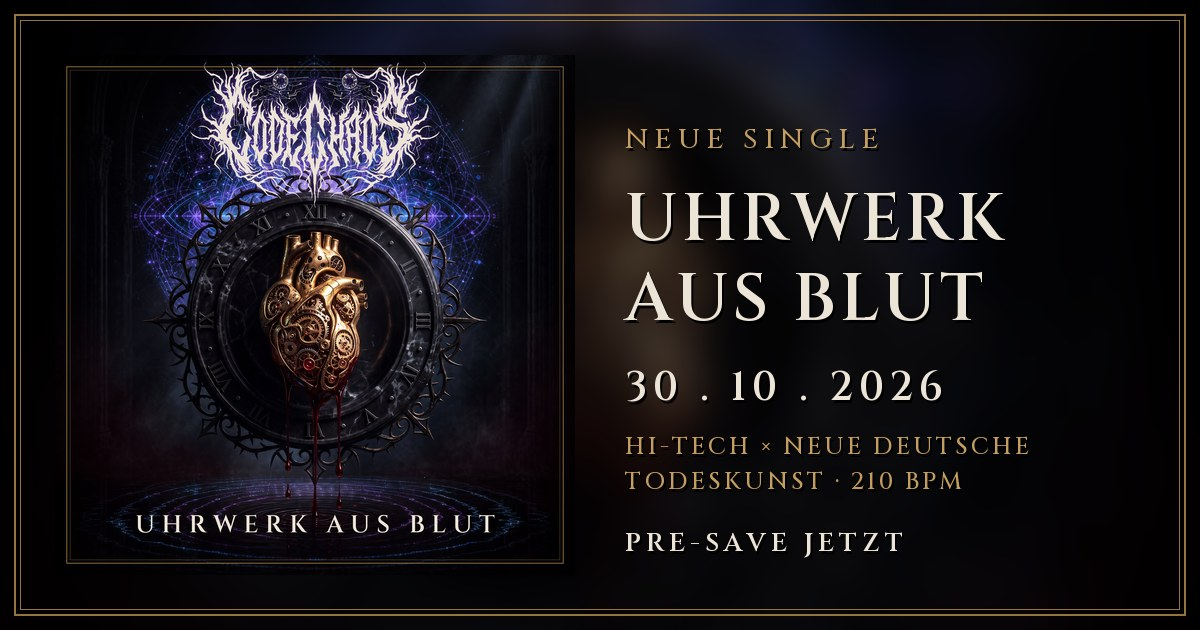
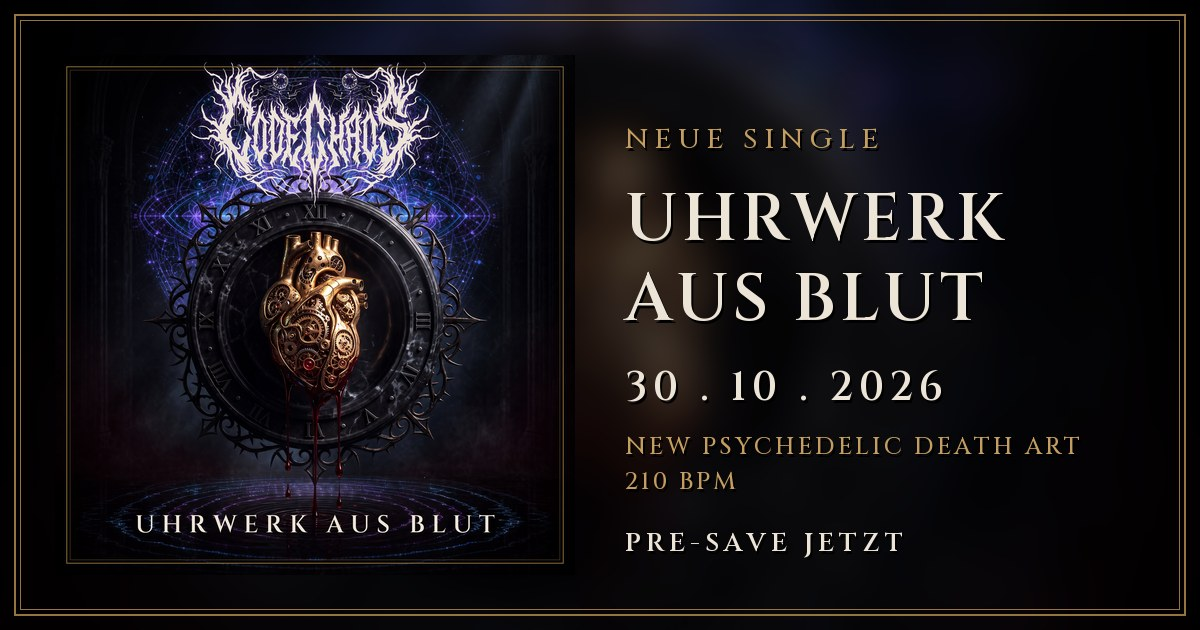
Genre-Label New Psychedelic Death Art in Share-Grafik; KI-Hinweis nur noch 'Bild mit KI erstellt'

Changed region(s): [[0.5242, 0.6937, 0.8942, 0.7841], [0.7092, 0.754, 0.8017, 0.7841]]

diff --git a/index.html b/index.html
@@ -181,7 +181,7 @@
    "inLanguage": "de",
    "image": "https://codechaos-official.de/images/uhrwerk-aus-blut/cover-1600.jpg",
    "url": "https://codechaos-official.de/#single",
-   "description": "Ein Herz, das zu schnell schlägt. Ein Uhrwerk, das blutet. Neue Single von Code Chaos, erscheint am 30.10.2026 auf Abstract Sound Design. Stimmen und Bild mit KI erstellt.",
+   "description": "Ein Herz, das zu schnell schlägt. Ein Uhrwerk, das blutet. Neue Single von Code Chaos, erscheint am 30.10.2026 auf Abstract Sound Design. Bild mit KI erstellt.",
    "recordingOf": {
     "@type": "MusicComposition",
     "name": "Uhrwerk aus Blut",
@@ -1461,7 +1461,7 @@ footer {
     <p class="tagline">Ein Herz, das zu schnell schlägt. Ein Uhrwerk, das blutet.</p>
     <a class="btn-blood" href="https://distrokid.com/hyperfollow/codechaos/uhrwerk-aus-blut" target="_blank" rel="noopener noreferrer" itemprop="url">Jetzt Pre-Saven</a>
     <p class="date"><time datetime="2026-10-30" itemprop="datePublished">30.10.2026</time> · <span itemprop="recordLabel">Abstract Sound Design</span></p>
-    <p class="ai-note">Stimmen und Bild mit KI erstellt.</p>
+    <p class="ai-note">Bild mit KI erstellt.</p>
     <meta itemprop="byArtist" content="Code Chaos">
     <meta itemprop="image" content="https://codechaos-official.de/images/uhrwerk-aus-blut/cover-1600.jpg">
     <span class="scroll-cue" aria-hidden="true"></span>
